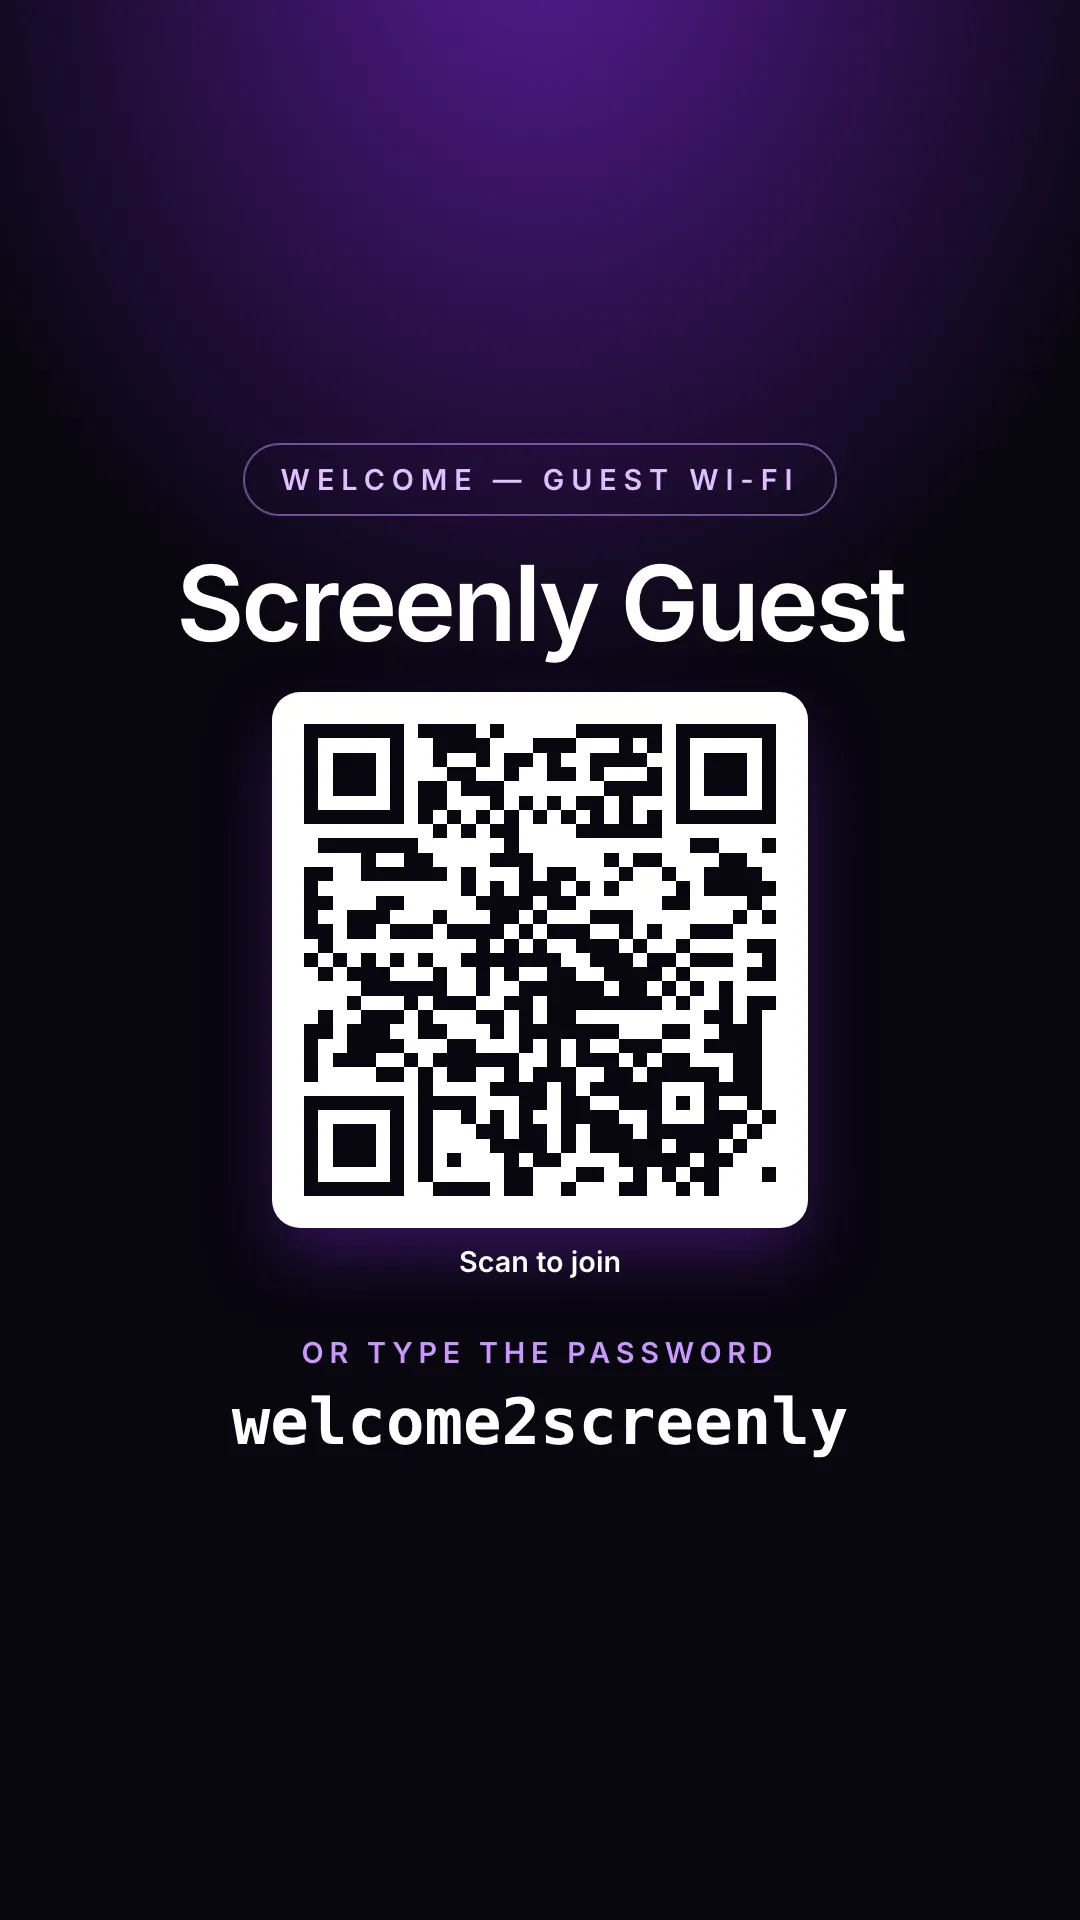
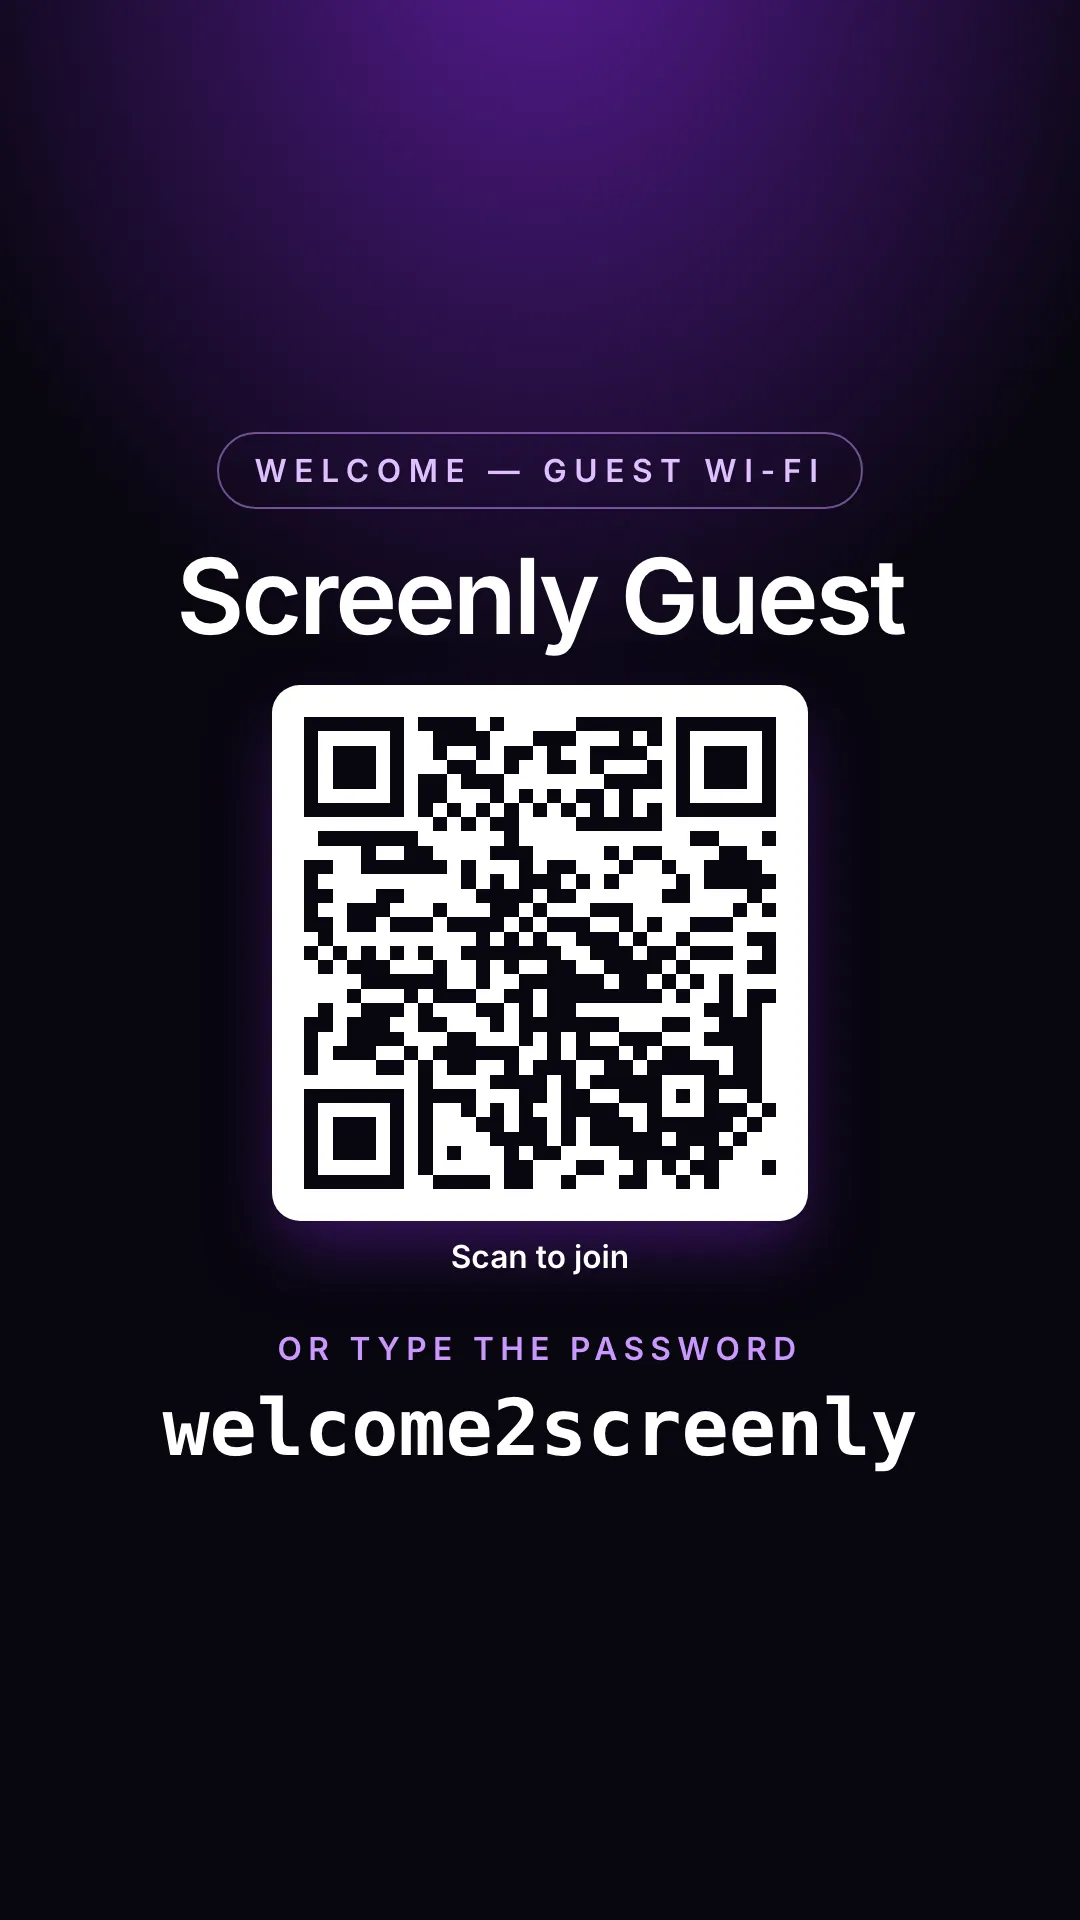
new updates

Changed region(s): [[0.1528, 0.2188, 0.8556, 0.7812]]

diff --git a/src/style.css b/src/style.css
@@ -89,7 +89,13 @@
     border-radius: 999px;
     border: 2px solid color-mix(in srgb, var(--accent-tint-2) 50%, transparent);
     color: var(--accent-tint);
-    font-size: clamp(0.85rem, 3.15cqh, 2.4rem);
+    /* The cqh-driven preferred value is what actually tracks the card's
+       real size; the rem ceiling is only a sanity cap for pathological
+       aspect ratios. Keep ceilings generous — a low one (tuned by eye
+       against 1080p) silently caps every element well before true 4K
+       (3840/4096-tall-or-wide) displays reach it, so text stops growing
+       past 1080p-ish even though the product explicitly targets 4K+. */
+    font-size: clamp(0.85rem, 3.15cqh, 5rem);
     font-weight: 700;
     letter-spacing: 0.24em;
     text-transform: uppercase;
@@ -105,7 +111,7 @@
   .ssid {
     margin: 0;
     max-width: 100%;
-    font-size: clamp(2.4rem, min(15.9cqh, 9cqw), 13rem);
+    font-size: clamp(2.4rem, min(15.9cqh, 9cqw), 22rem);
     line-height: 0.95;
     font-weight: 700;
     letter-spacing: -0.03em;
@@ -124,7 +130,7 @@
     background: rgba(255, 255, 255, 0.08);
     border: 1px solid rgba(255, 255, 255, 0.12);
     color: var(--ink);
-    font-size: clamp(1rem, 2.6cqh, 2.6rem);
+    font-size: clamp(1rem, 2.6cqh, 4.5rem);
     font-weight: 600;
   }
 
@@ -178,7 +184,7 @@
 
   .qr-caption {
     margin: 0;
-    font-size: clamp(0.85rem, 3.15cqh, 2.4rem);
+    font-size: clamp(0.85rem, 3.15cqh, 5rem);
     font-weight: 700;
     color: var(--ink);
   }
@@ -197,7 +203,7 @@
   }
 
   .password-label {
-    font-size: clamp(0.85rem, 3.15cqh, 2.4rem);
+    font-size: clamp(0.85rem, 3.15cqh, 5rem);
     font-weight: 700;
     letter-spacing: 0.2em;
     text-transform: uppercase;
@@ -206,7 +212,7 @@
 
   .password {
     font-family: 'SFMono-Regular', ui-monospace, Menlo, Consolas, monospace;
-    font-size: clamp(1.5rem, 8.9cqh, 6rem);
+    font-size: clamp(1.5rem, 8.9cqh, 13rem);
     font-weight: 700;
     color: var(--ink);
     word-break: break-word;
@@ -241,7 +247,7 @@
        (row 3) never moves between the two states. */
     .card.state-password,
     .card.state-no-password {
-      grid-template-rows: auto auto auto clamp(4rem, 9.06cqh, 10rem);
+      grid-template-rows: auto auto auto clamp(4rem, 9.06cqh, 24rem);
     }
 
     /* open network: badge, title, open-network pill, QR — no fixed
@@ -253,7 +259,7 @@
     .badge {
       grid-row: 1;
       max-width: 85cqw;
-      font-size: clamp(0.75rem, 1.77cqh, 1.8rem);
+      font-size: clamp(0.75rem, 1.77cqh, 5rem);
       padding: clamp(0.5rem, 0.94cqh, 1.2rem) clamp(0.9rem, 3.7cqw, 2.2rem);
       /* The header message is operator-editable free text, so it can run
          longer than the pill is wide — wrap instead of overflowing. */
@@ -267,7 +273,7 @@
 
     .ssid {
       grid-row: 2;
-      font-size: clamp(2rem, min(7.8cqh, 11cqw), 8rem);
+      font-size: clamp(2rem, min(7.8cqh, 11cqw), 15rem);
     }
 
     .status-badge {
@@ -302,7 +308,7 @@
     }
 
     .qr-caption {
-      font-size: clamp(0.75rem, 1.77cqh, 1.8rem);
+      font-size: clamp(0.75rem, 1.77cqh, 5rem);
     }
 
     .divider {
@@ -320,11 +326,11 @@
     }
 
     .password-label {
-      font-size: clamp(0.75rem, 1.77cqh, 1.8rem);
+      font-size: clamp(0.75rem, 1.77cqh, 5rem);
     }
 
     .password {
-      font-size: clamp(1.3rem, 4.375cqh, 4rem);
+      font-size: clamp(1.3rem, 4.375cqh, 12rem);
     }
   }
 }

diff --git a/index.html b/index.html
@@ -4,6 +4,14 @@
     <meta charset="UTF-8" />
     <meta name="viewport" content="width=device-width, initial-scale=1.0" />
     <title>Wi-Fi QR Share - Screenly Edge App</title>
+    <!-- Linked here (not just `import`-ed from main.ts) so it loads as a
+         blocking stylesheet before first paint. main.ts's script tag is a
+         deferred module, so without this the browser paints the raw,
+         unstyled HTML first — most visibly, the badge's SVG icon has no
+         width/height attributes and no CSS yet to size it, so it flashes
+         at the browser's default replaced-element size (~300px) on a
+         plain white body background for a frame or two on every load. -->
+    <link rel="stylesheet" href="/src/style.css" />
     <script src="screenly.js?version=1"></script>
     <script>
       // setupTheme() (called from src/main.ts) sets --theme-color-primary,

diff --git a/src/main.ts b/src/main.ts
@@ -1,4 +1,3 @@
-import './style.css'
 import QRCode from 'qrcode'
 import {
   getSettingWithDefault,
